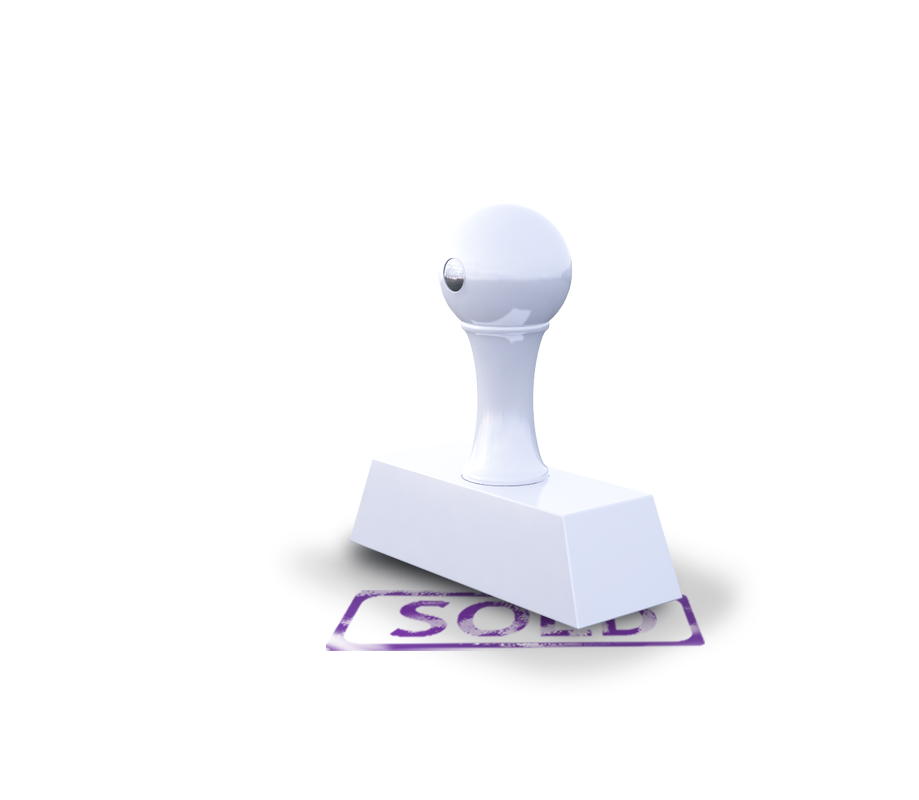
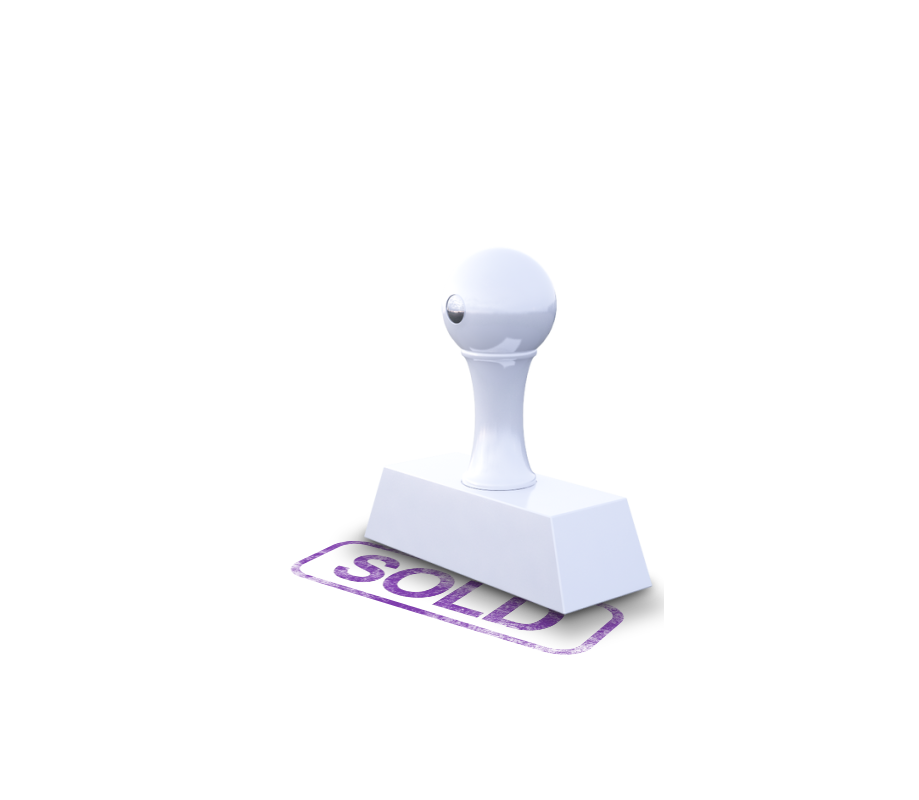
stamp positioned

Changed region(s): [[0.3047, 0.5625, 0.7922, 0.8438], [0.457, 0.25, 0.6398, 0.625]]

diff --git a/Assets/scripts/pages/PageMainTopic.cs b/Assets/scripts/pages/PageMainTopic.cs
@@ -48,7 +48,7 @@ public class PageMainTopic : BasePage {
         SelectedItemInPosition = new Vector3[6];
         //SelectedItemInPosition = new Vector3(0.1683824f, -0.05769891f, 11.72f);
         SelectedItemInPosition[0] = new Vector3(0.185f, -0.06f, 12.18f);//limo
-        SelectedItemInPosition[1] = new Vector3(0.32f, -0.01f, 12.3f);//stamp
+        SelectedItemInPosition[1] = new Vector3(0.32f, 0.03f, 11.8f);//stamp
         SelectedItemInPosition[2] = new Vector3(0.151f, -0.08f, 12.237f);//knife
         SelectedItemInPosition[3] = new Vector3(0.345f, -0.044f, 11.865f);//system
         SelectedItemInPosition[4] = new Vector3(0.361f, -0.053f, 12.078f);//cabin
